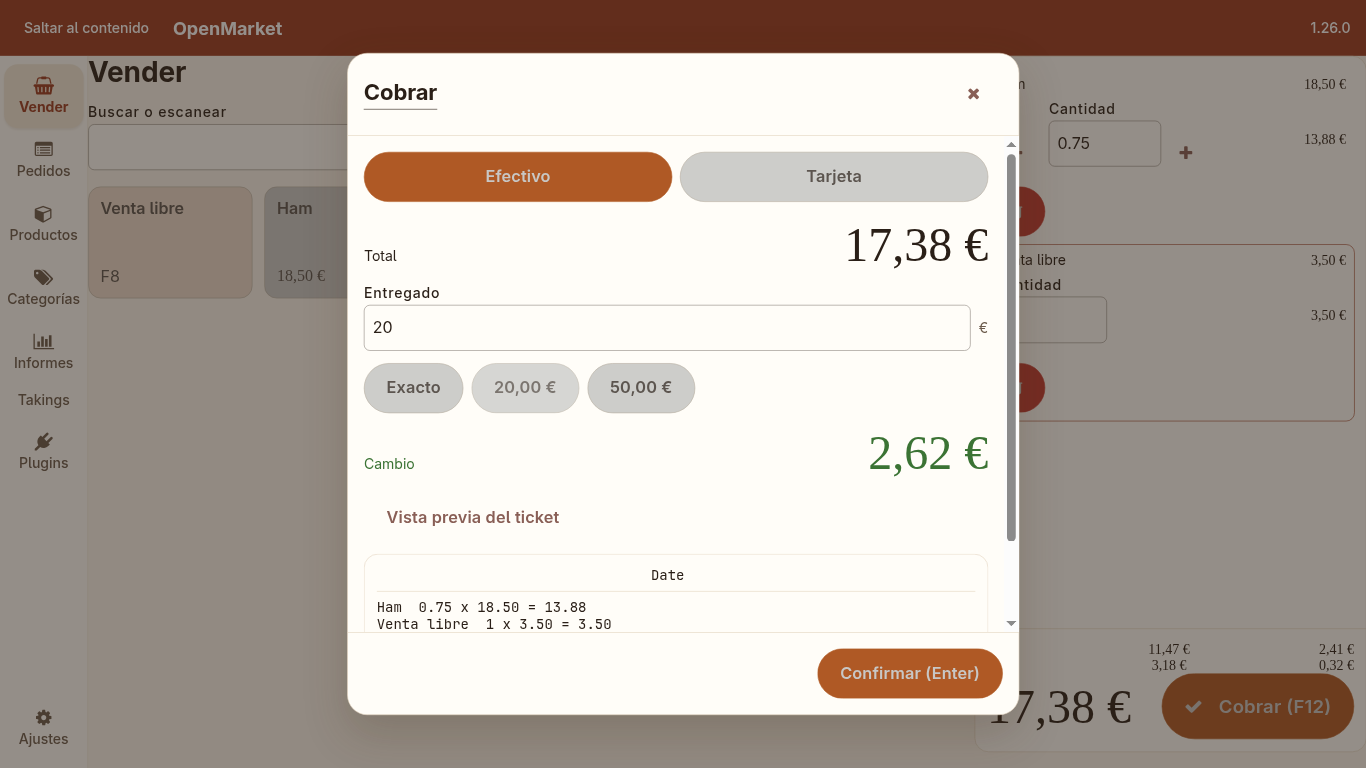
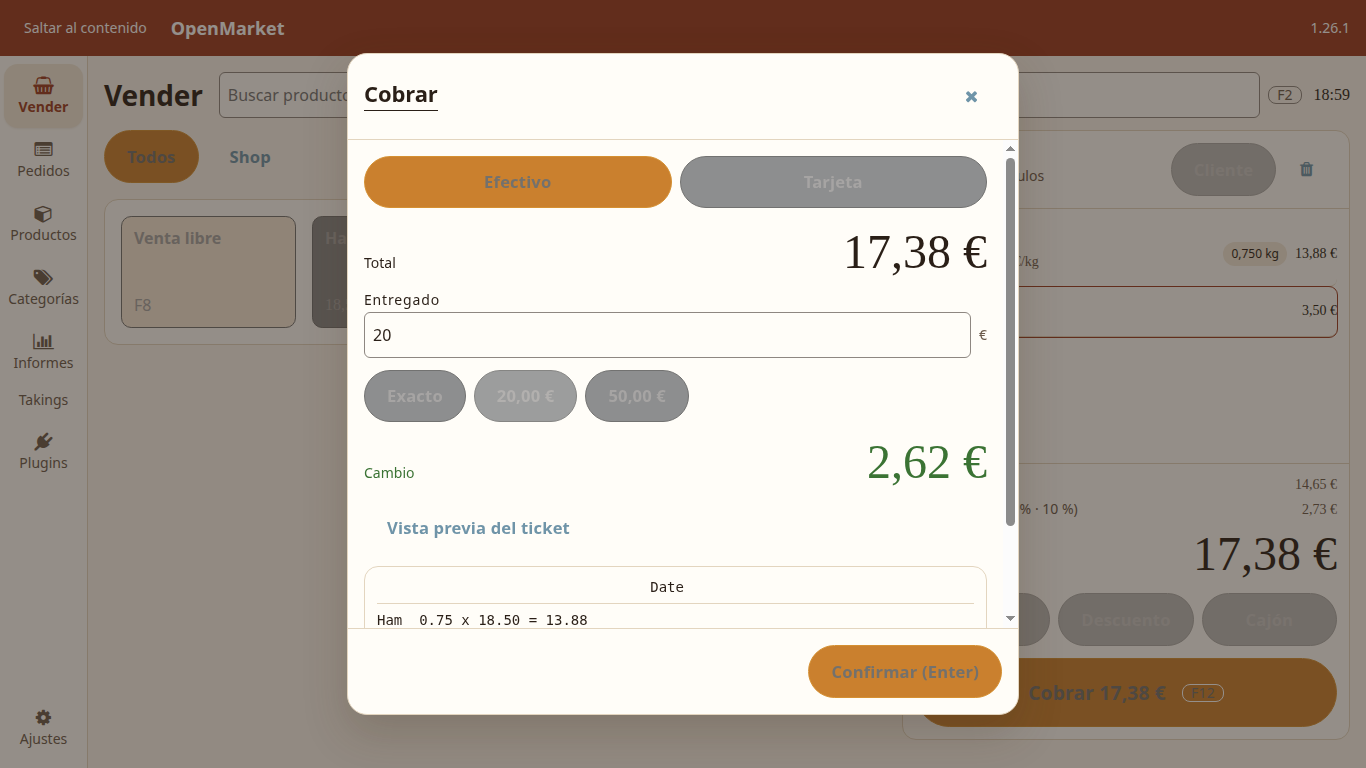
Show a weight pill when SQLite stores the weighed flag as 1.
The cart treated only a boolean as weighed, so a scanned ham line kept the unit stepper and the article count skipped it. Refresh the sell screenshots.

diff --git a/src/test/openMarket/user_interface/order/new_order/model.spec.js b/src/test/openMarket/user_interface/order/new_order/model.spec.js
@@ -27,6 +27,7 @@ describe('sell cart', () => {
       .addFreeLine({description: 'Venta libre', amount: '3.50', vatRate: 'S1:21'})
       .place();
 
+    expect(cart.order.lines[1].weighted).to.equal(true);
     expect(cart.order.total.cents).to.equal(order.total.cents);
     expect(cartTotal(cart.order.lines).cents).to.equal(110 + 648 + 350);
     expect(vatRows([])).to.deep.equal([]);
@@ -43,6 +44,20 @@ describe('sell cart', () => {
       quotaCents: 0,
       rates: []
     });
+    const fromStore = addProduct({
+      lines: [],
+      product: {barcode: '9', name: 'Jamón', price: '18.50', isWeighted: 1},
+      quantity: 0.75
+    });
+    expect(fromStore.order.lines[0].weighted).to.equal(true);
+    expect(ticketFacts(fromStore.order.lines).articleCount).to.equal(1);
+    const counted = addProduct({
+      lines: [],
+      product: {barcode: '8', name: 'Pan', price: '1.00', isWeighted: 0},
+      quantity: 1
+    });
+    expect(counted.order.lines[0].weighted).to.equal(false);
+
     const partial = ticketFacts([{kind: 'PRODUCT', quantity: {milli: 500}, weighted: false}]);
     expect(partial.lineCount).to.equal(1);
     expect(partial.articleCount).to.equal(0);

diff --git a/src/openMarket/user_interface/order/new_order/model.js b/src/openMarket/user_interface/order/new_order/model.js
@@ -397,7 +397,22 @@ function weightedOf(product) {
     return undefined;
   }
   const value = typeof product.isWeighted === 'function' ? product.isWeighted() : product.isWeighted;
-  return typeof value === 'boolean' ? value : undefined;
+  return weighedFlag(value);
+}
+
+/**
+ * SQLite stores the column as 0 or 1. The product getter returns that number.
+ * @param {*} value
+ * @returns {boolean | undefined}
+ */
+function weighedFlag(value) {
+  if (typeof value === 'boolean') {
+    return value;
+  }
+  if (value === 1 || value === 0) {
+    return value === 1;
+  }
+  return undefined;
 }
 
 /**
